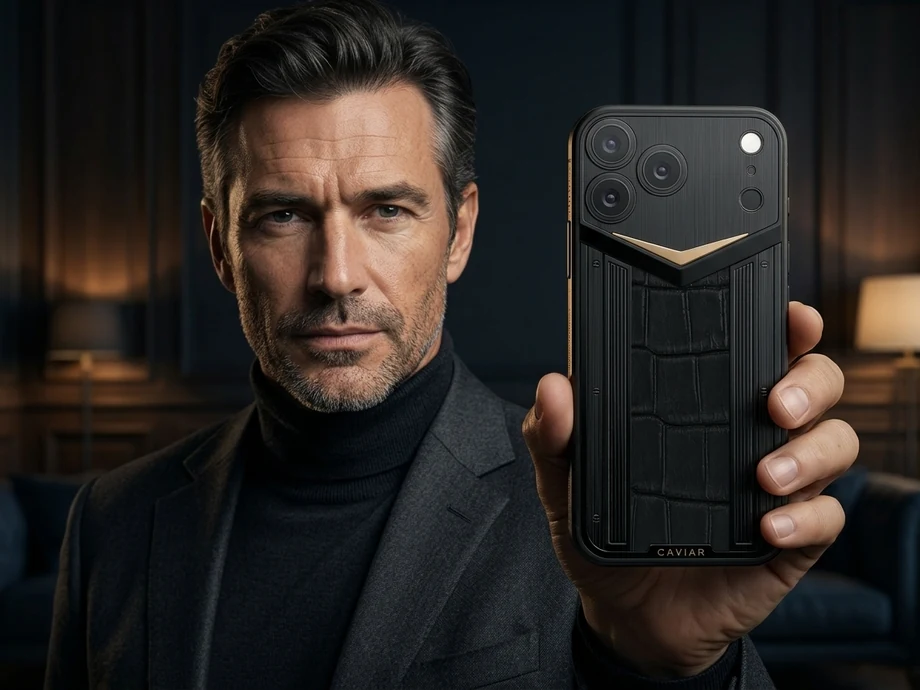
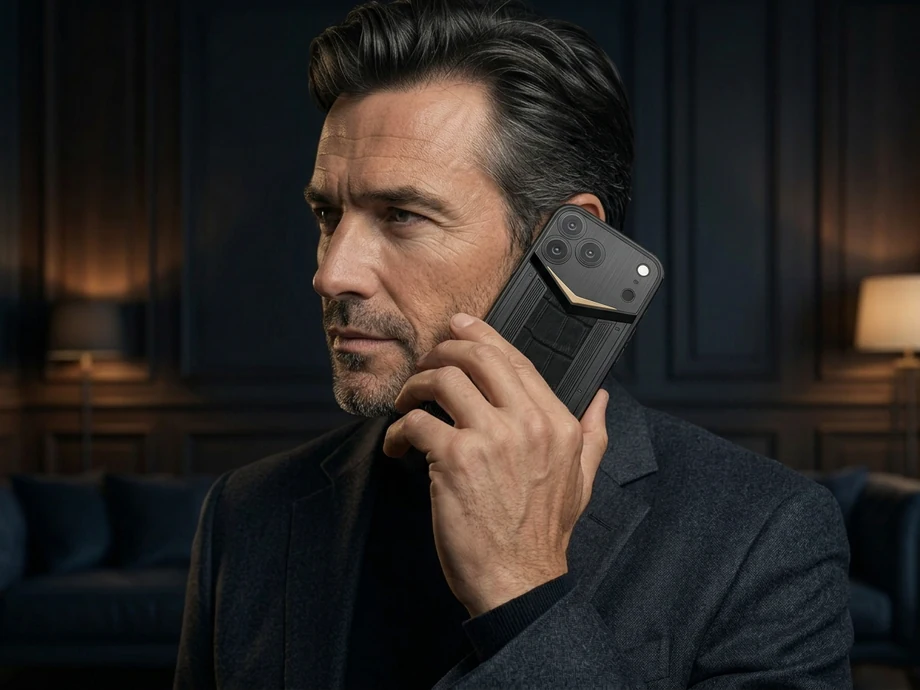
Update poses in Caviar gift recommendation portraits

diff --git a/holiday-privileges-2026/index.html b/holiday-privileges-2026/index.html
@@ -57,21 +57,21 @@
     </div>
     <div class="catalog-grid">
       <a class="catalog-card" href="https://caviar-phones.ru/collection-for-him/">
-        <img class="catalog-image" src="assets/recommendation-for-him.webp" alt="" loading="lazy" width="920" height="690">
+        <img class="catalog-image" src="assets/recommendation-for-him.webp?v=af5b6ab" alt="" loading="lazy" width="920" height="690">
         <div class="catalog-card-copy">
           <h3>Подарок для него</h3>
           <span>Смотреть подборку</span>
         </div>
       </a>
       <a class="catalog-card" href="https://caviar-phones.ru/collection-for-her/">
-        <img class="catalog-image" src="assets/recommendation-for-her.webp" alt="" loading="lazy" width="920" height="690">
+        <img class="catalog-image" src="assets/recommendation-for-her.webp?v=6afbf3b" alt="" loading="lazy" width="920" height="690">
         <div class="catalog-card-copy">
           <h3>Подарок для неё</h3>
           <span>Смотреть подборку</span>
         </div>
       </a>
       <a class="catalog-card" href="https://caviar-phones.ru/collections/russia/">
-        <img class="catalog-image" src="assets/recommendation-russia.webp" alt="" loading="lazy" width="920" height="690">
+        <img class="catalog-image" src="assets/recommendation-russia.webp?v=2611c7a" alt="" loading="lazy" width="920" height="690">
         <div class="catalog-card-copy">
           <h3>Патриотический подарок</h3>
           <span>Смотреть коллекцию «Россия»</span>
